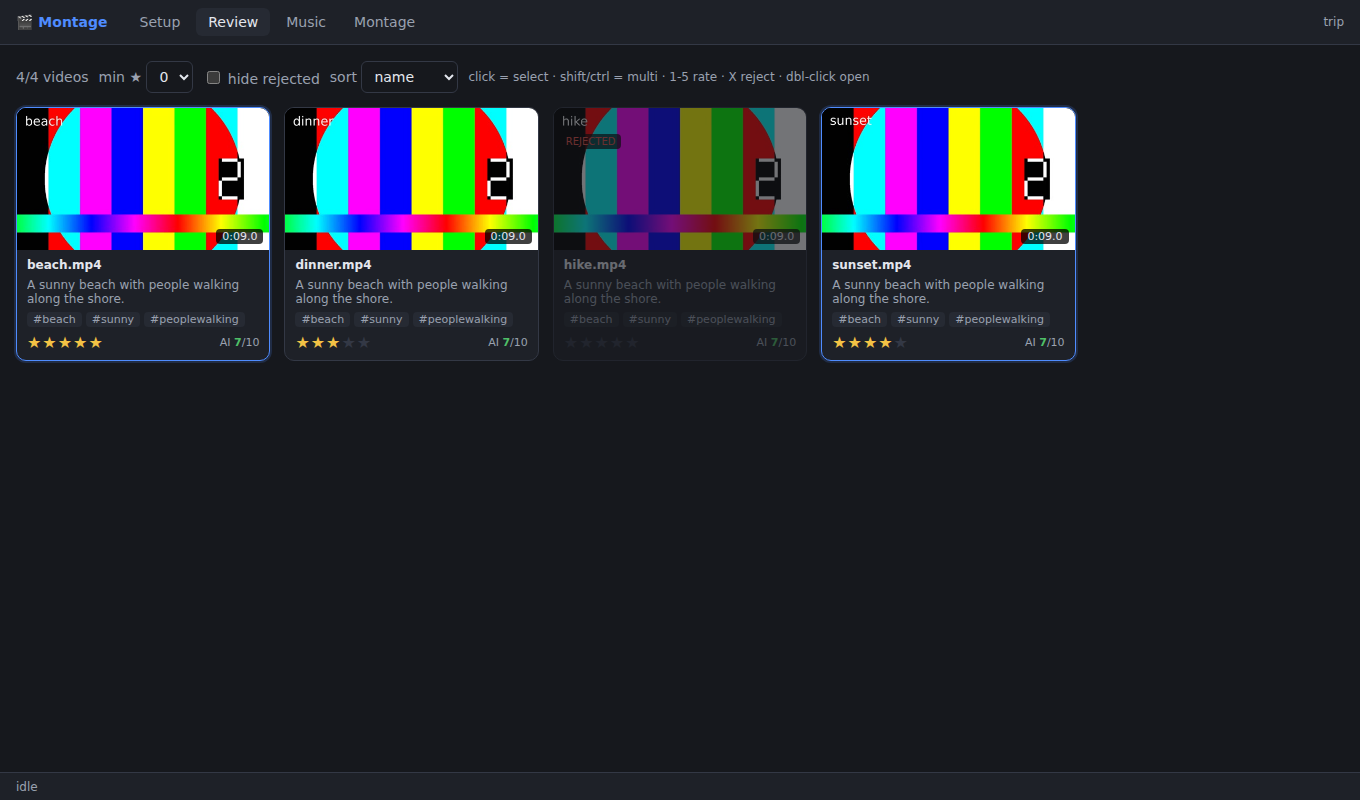
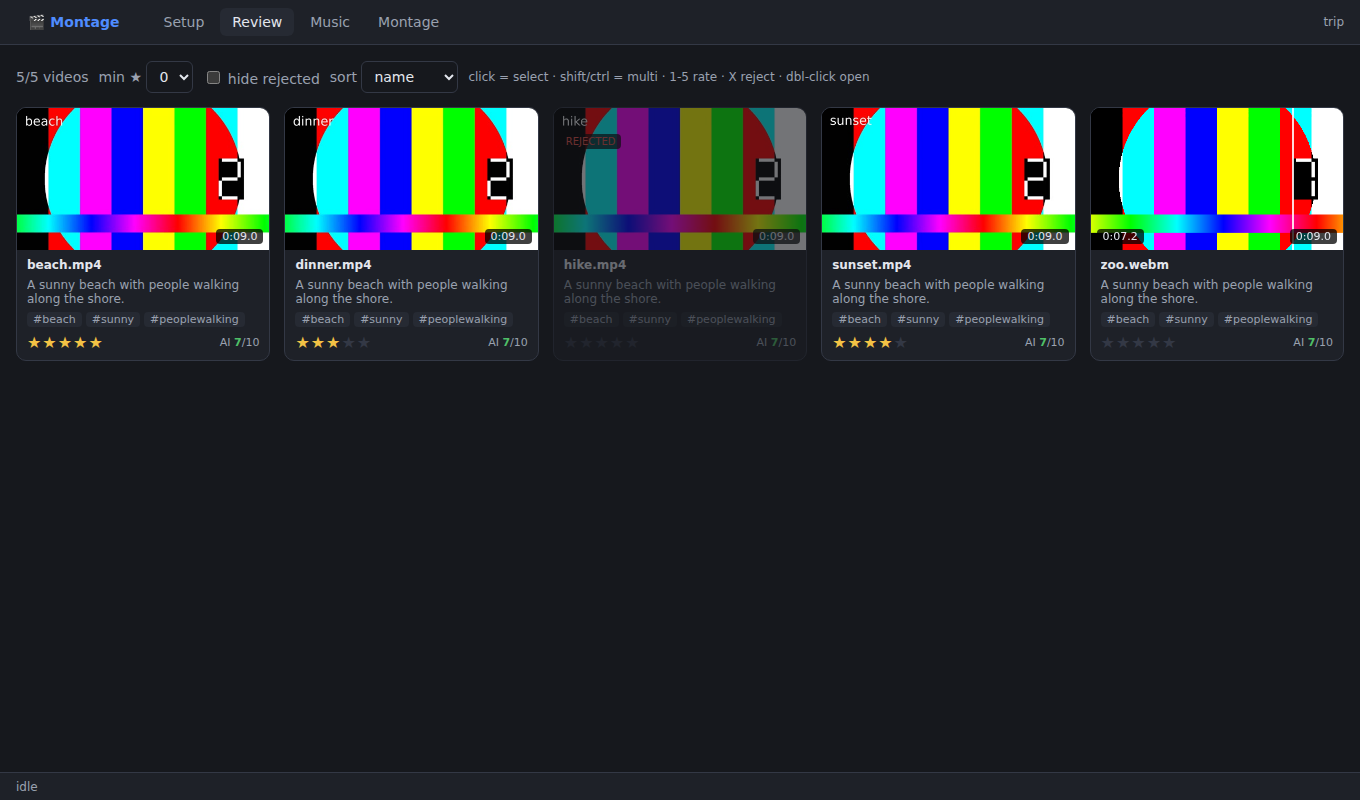
Hover scrub on video thumbnails (Premiere/FCP style)
Moving the mouse horizontally over a thumbnail scrubs through the clip:
a muted video element is mounted only while hovering and seeks to the
time mapped from the cursor position, with a position line and time
readout. Applied to the Review grid and the montage bin via a shared
ScrubThumb component; documented in the manual.

Claude-Session: https://claude.ai/code/session_01UYTCYYyAChK1KXAjgSnRQ6

diff --git a/frontend/src/components/ScrubThumb.tsx b/frontend/src/components/ScrubThumb.tsx
@@ -1,0 +1,60 @@
+import { useRef, useState } from 'react'
+import { media, fmtTime } from '../lib/api'
+
+interface Props {
+  pid: string
+  videoId: number
+  duration: number
+  /** overlays rendered on top (duration badge, status chips...) */
+  children?: React.ReactNode
+}
+
+/** Premiere/FCP-style hover scrub: while the pointer is over the thumbnail,
+ *  its horizontal position maps to a time in the clip and a muted <video>
+ *  (mounted only during hover) seeks there live. */
+export default function ScrubThumb({ pid, videoId, duration, children }: Props) {
+  const [hover, setHover] = useState(false)
+  const [frac, setFrac] = useState(0)
+  const fracRef = useRef(0)
+  const videoRef = useRef<HTMLVideoElement>(null)
+
+  const seek = (f: number) => {
+    const v = videoRef.current
+    if (v && v.readyState >= 1 && duration) v.currentTime = f * duration
+  }
+
+  const onMove = (e: React.MouseEvent) => {
+    const rect = e.currentTarget.getBoundingClientRect()
+    const f = Math.min(0.999, Math.max(0, (e.clientX - rect.left) / rect.width))
+    fracRef.current = f
+    setFrac(f)
+    seek(f)
+  }
+
+  return (
+    <div
+      className="thumb"
+      onMouseEnter={() => setHover(true)}
+      onMouseLeave={() => setHover(false)}
+      onMouseMove={onMove}
+    >
+      <img src={media.thumb(pid, videoId)} loading="lazy" alt="" draggable={false} />
+      {hover && duration > 0 && (
+        <>
+          <video
+            ref={videoRef}
+            className="scrub-video"
+            src={media.video(pid, videoId)}
+            muted
+            playsInline
+            preload="auto"
+            onLoadedMetadata={() => seek(fracRef.current)}
+          />
+          <div className="scrub-line" style={{ left: `${frac * 100}%` }} />
+          <span className="scrub-time">{fmtTime(frac * duration)}</span>
+        </>
+      )}
+      {children}
+    </div>
+  )
+}

diff --git a/frontend/src/index.css b/frontend/src/index.css
@@ -101,6 +101,21 @@ input:focus, select:focus, textarea:focus { outline: none; border-color: var(--a
 .video-card.rejected { opacity: 0.4; }
 .video-card .thumb { position: relative; aspect-ratio: 16/9; background: #000; }
 .video-card .thumb img { width: 100%; height: 100%; object-fit: cover; display: block; }
+
+/* hover scrub (Premiere-style) */
+.thumb { cursor: crosshair; }
+.thumb .scrub-video {
+  position: absolute; inset: 0; width: 100%; height: 100%;
+  object-fit: cover; pointer-events: none; background: #000;
+}
+.thumb .scrub-line {
+  position: absolute; top: 0; bottom: 0; width: 1.5px;
+  background: rgba(255, 255, 255, 0.85); pointer-events: none;
+}
+.thumb .scrub-time {
+  position: absolute; left: 6px; bottom: 6px; background: rgba(0, 0, 0, 0.75);
+  padding: 1px 6px; border-radius: 4px; font-size: 11px; pointer-events: none;
+}
 .video-card .duration {
   position: absolute; right: 6px; bottom: 6px; background: rgba(0,0,0,0.75);
   padding: 1px 6px; border-radius: 4px; font-size: 11px;
@@ -164,7 +179,12 @@ input:focus, select:focus, textarea:focus { outline: none; border-color: var(--a
   display: flex; gap: 8px; background: var(--bg-elevated); border: 1px solid var(--border);
   border-radius: 8px; padding: 6px; cursor: grab; align-items: center;
 }
-.bin-item img { width: 84px; aspect-ratio: 16/9; object-fit: cover; border-radius: 4px; background: #000; }
+.bin-item .thumb {
+  position: relative; width: 84px; flex-shrink: 0; aspect-ratio: 16/9;
+  border-radius: 4px; background: #000; overflow: hidden;
+}
+.bin-item .thumb img { width: 100%; height: 100%; object-fit: cover; display: block; }
+.bin-item .thumb .scrub-time { left: 3px; bottom: 3px; font-size: 9px; padding: 0 4px; }
 .bin-item .meta { flex: 1; min-width: 0; }
 .bin-item .meta .name { font-size: 12px; font-weight: 600; white-space: nowrap; overflow: hidden; text-overflow: ellipsis; }
 .bin-item .meta .sub { font-size: 11px; color: var(--text-dim); }

diff --git a/frontend/src/components/VideoCard.tsx b/frontend/src/components/VideoCard.tsx
@@ -1,5 +1,6 @@
-import { media, fmtTime } from '../lib/api'
+import { fmtTime } from '../lib/api'
 import type { Video } from '../lib/types'
+import ScrubThumb from './ScrubThumb'
 import StarRating from './StarRating'
 
 interface Props {
@@ -20,12 +21,11 @@ export default function VideoCard({ pid, video, selected, onSelect, onOpen, onRa
       onClick={onSelect}
       onDoubleClick={onOpen}
     >
-      <div className="thumb">
-        <img src={media.thumb(pid, video.id)} loading="lazy" alt={video.filename} />
+      <ScrubThumb pid={pid} videoId={video.id} duration={video.duration}>
         <span className="duration">{fmtTime(video.duration)}</span>
         {video.status !== 'ready' && <span className="status-chip">{video.status}</span>}
         {video.rejected && <span className="status-chip" style={{ top: 26, color: 'var(--danger)' }}>rejected</span>}
-      </div>
+      </ScrubThumb>
       <div className="body">
         <div className="name" title={video.rel_path}>{video.filename}</div>
         <div className="desc">{video.error ? <span className="error-text">{video.error}</span> : video.description || '—'}</div>

diff --git a/frontend/src/pages/MontagePage.tsx b/frontend/src/pages/MontagePage.tsx
@@ -2,6 +2,7 @@ import { useCallback, useEffect, useMemo, useRef, useState } from 'react'
 import { api, media, fmtTime } from '../lib/api'
 import { useProjectEvents } from '../lib/sse'
 import type { SongInfo, TimelineClip, Track, Video } from '../lib/types'
+import ScrubThumb from '../components/ScrubThumb'
 import Waveform from '../components/Waveform'
 import { sectionColor } from './MusicPage'
 
@@ -309,7 +310,7 @@ export default function MontagePage({ pid }: { pid: string }) {
                 )
               }
             >
-              <img src={media.thumb(pid, v.id)} loading="lazy" alt="" />
+              <ScrubThumb pid={pid} videoId={v.id} duration={v.duration} />
               <div className="meta">
                 <div className="name">{v.filename}</div>
                 <div className="sub">

diff --git a/docs/MANUAL.md b/docs/MANUAL.md
@@ -79,6 +79,9 @@ star rating.
 
 ![Review page](img/review.png)
 
+- **Hover scrub** (like Premiere/Final Cut): move the mouse horizontally over
+  a thumbnail and the clip plays under your cursor — left edge is the start,
+  right edge the end, with a time readout. Works in the montage bin too.
 - **Click** a card to select it. **Ctrl/Cmd-click** adds to the selection,
   **Shift-click** selects a range.
 - Press **1–5** to rate the selection, **0** to clear the rating, **X** to